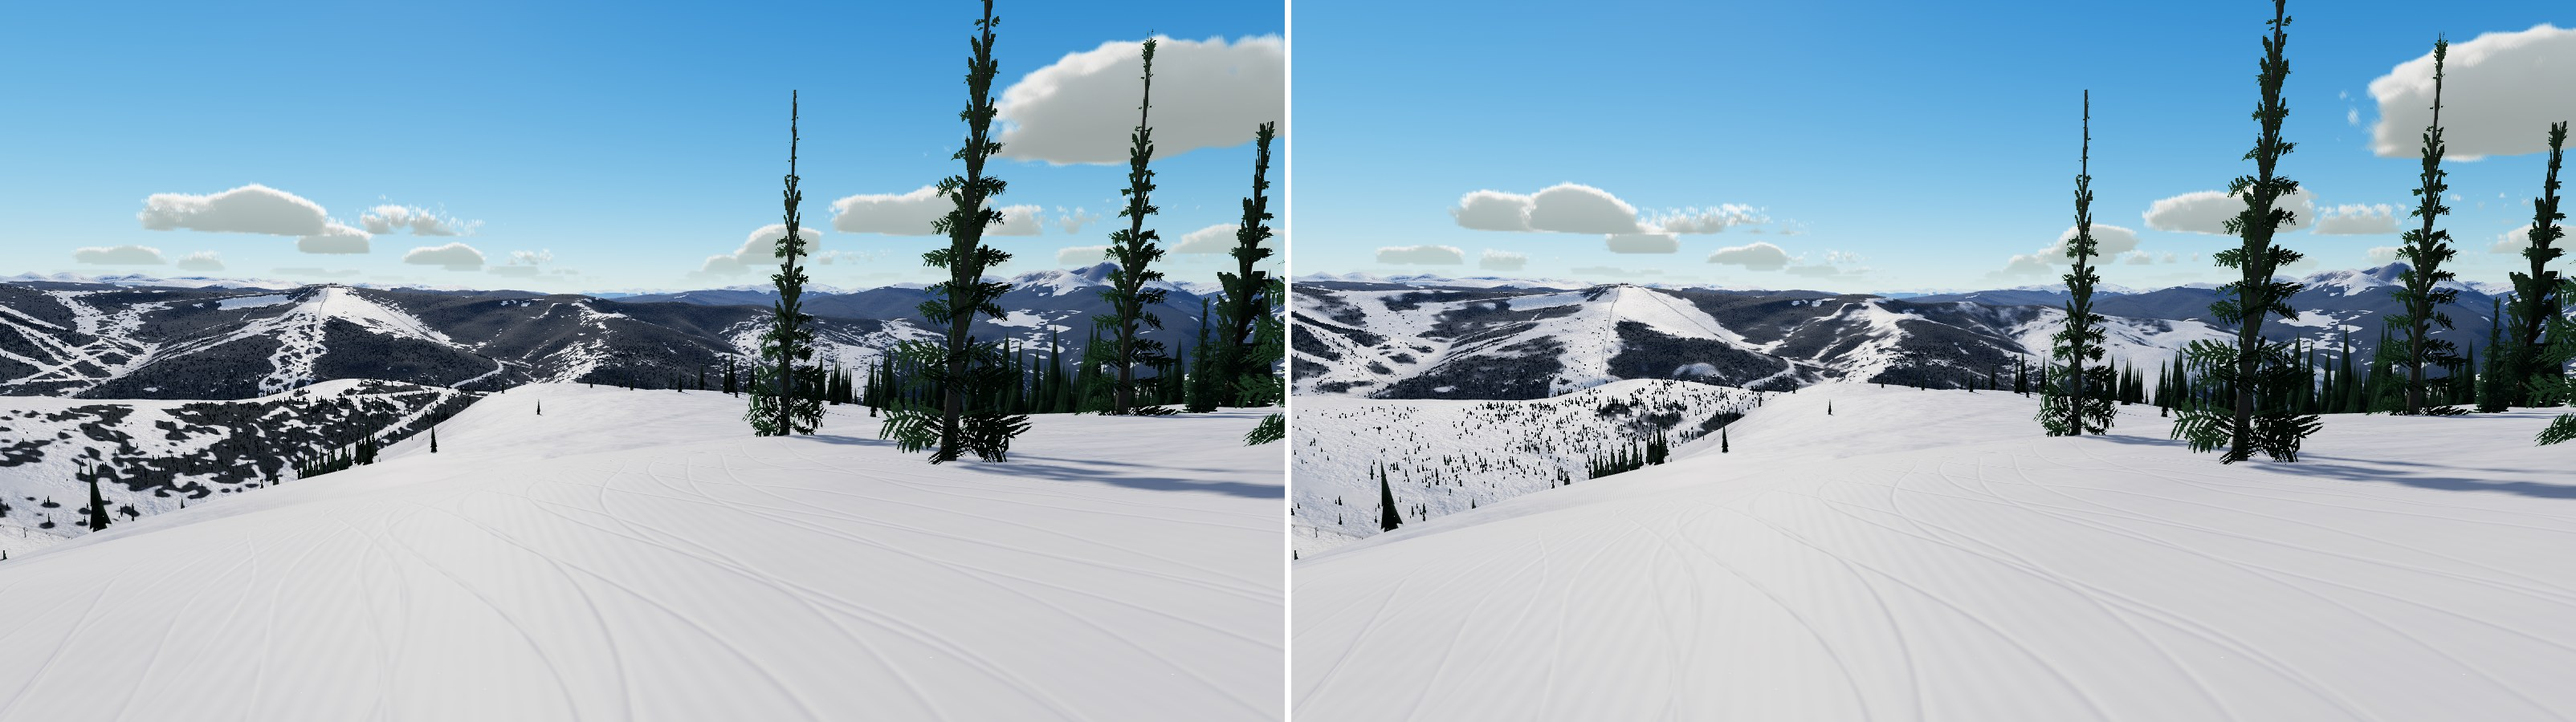
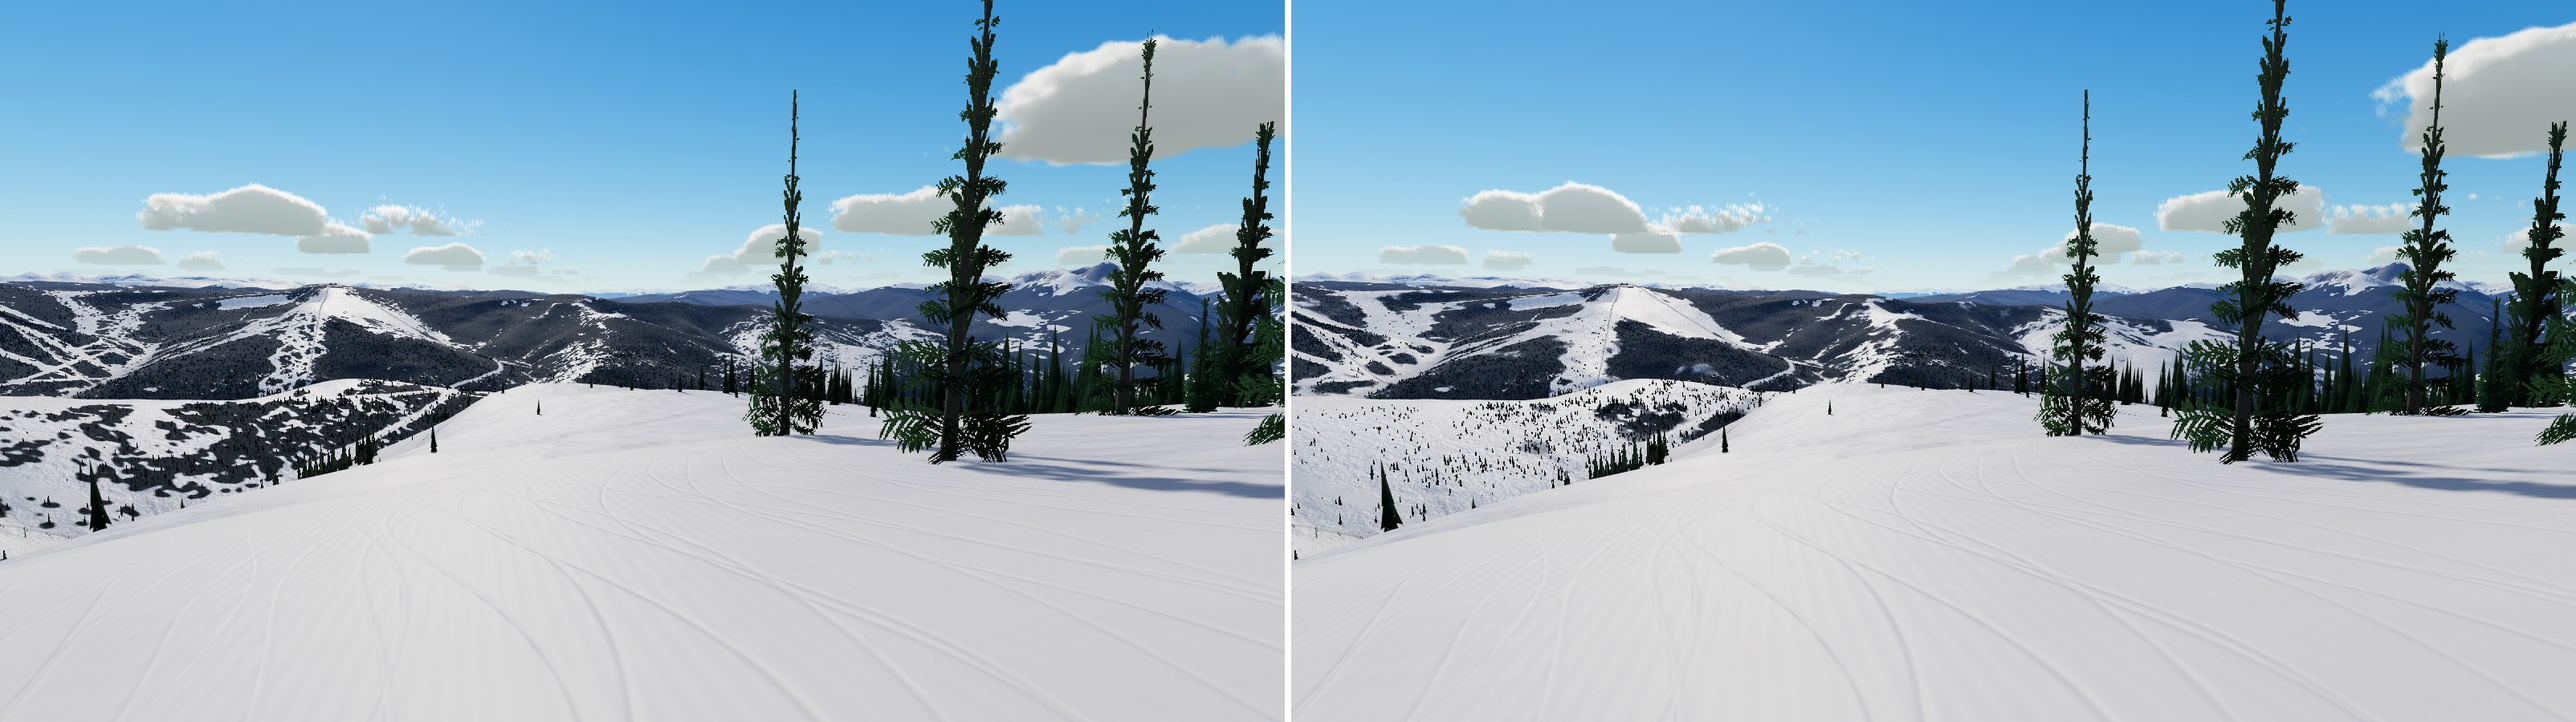
BUG-069: far timber closes up in slanted views (tree aspect in the gap fraction) and reads darker blue-green

diff --git a/game/src/terrain/TerrainMaterial.ts b/game/src/terrain/TerrainMaterial.ts
@@ -133,7 +133,7 @@ export function createTerrainMaterial(): THREE.MeshStandardMaterial {
      *  the share of the sun a sunlit canopy returns (shaded needles and crown sides), and how much of a
      *  forested pixel is timber rather than snow between the crowns. Tuned from 500 to 900 m up on Vail. */
     uForestDrawn: { value: 0.7 },
-    uCanopySun: { value: 0.3 },
+    uCanopySun: { value: 0.22 },
     uTimberMix: { value: 0.97 },
     /** FEAT-154: the rectangle (pack minX, minY, maxX, maxY) holding tree instances; none by default */
     uTreeRect: { value: EMPTY_RECT.clone() },
@@ -218,6 +218,8 @@ export function createTerrainMaterial(): THREE.MeshStandardMaterial {
         vec2 covUV(vec2 p, vec4 r) { return vec2((p.x - r.x) / (r.z - r.x), (r.w - p.y) / (r.w - r.y)); }
         // BUG-069: G of a level is its forest under closed stands of drawn trees only, shown while single
         // trees read (to STAND_NEAR m); R, the forest as a mass, takes over by STAND_FAR
+        // a conifer's side silhouette over its plan area: in a slanted view tall trees close the gaps sooner
+        #define TREE_ASPECT 2.5
         #define STAND_NEAR 1200.0
         #define STAND_FAR 2800.0
         // forest share (x) blended finest over coarsest, and how much of it is data (y). All three are
@@ -414,7 +416,7 @@ export function createTerrainMaterial(): THREE.MeshStandardMaterial {
         float forestK = mix(smoothstep(FOREST_LO, FOREST_HI, vForest), smoothstep(0.1, 0.9, cov.x), covK);
         // FEAT-154: how much of this ground a viewer sees as canopy (a gap fraction). With a share s of the
         // ground under crowns, a sight line at cosine mu to the ground misses the crowns with probability
-        // (1 - s)^(1/mu): grazing views (from the snow) see a closed mass, views from above see the openings.
+        // (1 - s)^((1 + TREE_ASPECT sin) / mu): grazing views (from the snow) see a closed mass, views from above see the openings.
         // Inside the trees' reach the drawn trees already cover rho = uForestDrawn of the canopy, so the
         // ground adds only what they miss, 1 - ((1 - s) / (1 - rho s))^(1/mu); before this the ground went
         // grey under trees that were already drawn, so sparse stands in the bowls read as grey blobs from
@@ -426,7 +428,7 @@ export function createTerrainMaterial(): THREE.MeshStandardMaterial {
         float viewMu = clamp(dot(ngW, normalize(cameraPosition - wp)), 0.12, 1.0);
         float rho = uForestDrawn * treeHere * (1.0 - smoothstep(uLiftNear - 800.0, uLiftNear, dist));
         float sK = min(forestK, 0.999);
-        float seen = 1.0 - pow((1.0 - sK) / (1.0 - rho * sK), 1.0 / viewMu);
+        float seen = 1.0 - pow((1.0 - sK) / (1.0 - rho * sK), (1.0 + TREE_ASPECT * sqrt(1.0 - viewMu * viewMu)) / viewMu);
         float fd = mix(1.0, smoothstep(FOREST_NEAR, FOREST_FULL, dist), treeHere) * seen;
         fd *= 1.0 - uDebugFar.x;
         // FEAT-075: conifer canopy in sun is dark (shaded needles and crowns), dark green-black in the photos.
@@ -436,7 +438,7 @@ export function createTerrainMaterial(): THREE.MeshStandardMaterial {
         float crownK = 1.0 - smoothstep(1.0, 5.0, pixM);
         float crown = vnoise(wp * 0.17) * 0.65 + vnoise(wp * 0.47 + 2.3) * 0.35;
         float stand = vnoise(wp * 0.007 + 5.1);
-        vec3 timber = mix(vec3(0.03, 0.045, 0.035), vec3(0.08, 0.1, 0.075), mix(0.4, crown, crownK) * 0.75 + stand * 0.25);
+        vec3 timber = mix(vec3(0.016, 0.034, 0.036), vec3(0.04, 0.07, 0.066), mix(0.4, crown, crownK) * 0.75 + stand * 0.25);
         timber = mix(timber, snow * 0.8, smoothstep(0.62, 0.9, crown) * crownK * 0.6); // snowy gaps between crowns
         base = mix(base, timber, fd * uTimberMix);
         gSnowW = wSnow * (1.0 - fd);

diff --git a/docs/developer-guide.md b/docs/developer-guide.md
@@ -7,7 +7,7 @@ pipeline script, URL parameters and the milestone history. Process docs: [HANDOF
 
 ## Features in detail
 
-- Terrain: quadtree LOD over the 262 km far ring, 1 m near the rider, snow / rock / scree / groomed material; forested ground darkens from the tree impostor ring outward so the far forest reads dark. Distant forest (FEAT-153, `pack/CoverSet.ts`): past about 300 m the shader takes the forest share per pixel from the pack's cover levels (`cover/*.png`, a mipmapped texture per level, up to 3), so the real forest edges and the ski trails cut through it show at any distance; to 1.2 km it reads the level's closed stands of drawn trees (G of the texture, the `stands` image) and from 2.8 km the forest as a mass (R), so open slopes with a few trees stay white up close and far timber stays solid (BUG-069); chunks coarser than 8 m take forest, rock and canopy height from the same levels per vertex instead of the procedural treeline (`proceduralForest`, now only where no level reaches or before they load). From the impostors' reach (`uLiftNear`, Vegetation's FAR_RADIUS: 4.5 km at full tree density, nearer on lower density settings) to 2 km past it, chunks coarser than 8 m rise by canopy height x cover x 0.7 (the `lift` attribute, applied in the vertex shader) so forested ridges read as treed; the far timber has a crown-scale texture that fades to an even tone once a pixel is wider than a crown. Forest from high up (FEAT-154, `docs/research/far-terrain.md` section 7): how dark forested ground goes is a gap fraction, `1 - ((1 - s) / (1 - rho s))^(1 / mu)` of the cover share `s` and the cosine `mu` between the ground normal and the view, so grazing views from the snow see a closed mass and views from the air see the openings; inside the trees' reach `rho` (`uForestDrawn`, 0.7) is the part of the canopy the drawn trees already cover, and outside the pack's tree instances (`uTreeRect`, set by `Terrain` from `meta.instances`) the ground carries the forest from the first metre. Sunlit canopy takes `uCanopySun` (0.3) of the direct light and a forested pixel is `uTimberMix` (0.97) timber. `uDebugFar` switches terms off for A/B stills (x forest, y rock and talus, z snow drift normals; w paints the forest darkening red), for example `SHOT_EVAL` or a `tools/aerial.mjs` variant setting `__sim.terrain.material.userData.uniforms.uDebugFar.value.set(1, 0, 0, 0)`.
+- Terrain: quadtree LOD over the 262 km far ring, 1 m near the rider, snow / rock / scree / groomed material; forested ground darkens from the tree impostor ring outward so the far forest reads dark. Distant forest (FEAT-153, `pack/CoverSet.ts`): past about 300 m the shader takes the forest share per pixel from the pack's cover levels (`cover/*.png`, a mipmapped texture per level, up to 3), so the real forest edges and the ski trails cut through it show at any distance; to 1.2 km it reads the level's closed stands of drawn trees (G of the texture, the `stands` image) and from 2.8 km the forest as a mass (R), so open slopes with a few trees stay white up close and far timber stays solid (BUG-069); chunks coarser than 8 m take forest, rock and canopy height from the same levels per vertex instead of the procedural treeline (`proceduralForest`, now only where no level reaches or before they load). From the impostors' reach (`uLiftNear`, Vegetation's FAR_RADIUS: 4.5 km at full tree density, nearer on lower density settings) to 2 km past it, chunks coarser than 8 m rise by canopy height x cover x 0.7 (the `lift` attribute, applied in the vertex shader) so forested ridges read as treed; the far timber has a crown-scale texture that fades to an even tone once a pixel is wider than a crown. Forest from high up (FEAT-154, `docs/research/far-terrain.md` section 7): how dark forested ground goes is a gap fraction, `1 - ((1 - s) / (1 - rho s))^((1 + 2.5 sqrt(1 - mu^2)) / mu)` of the cover share `s` and the cosine `mu` between the ground normal and the view (the 2.5, `TREE_ASPECT`, is a conifer's side silhouette over its plan area: tall trees close the gaps sooner in a slanted view, BUG-069), so grazing views from the snow see a closed mass and views from the air see the openings; inside the trees' reach `rho` (`uForestDrawn`, 0.7) is the part of the canopy the drawn trees already cover, and outside the pack's tree instances (`uTreeRect`, set by `Terrain` from `meta.instances`) the ground carries the forest from the first metre. Sunlit canopy takes `uCanopySun` (0.22) of the direct light and a forested pixel is `uTimberMix` (0.97) timber. `uDebugFar` switches terms off for A/B stills (x forest, y rock and talus, z snow drift normals; w paints the forest darkening red), for example `SHOT_EVAL` or a `tools/aerial.mjs` variant setting `__sim.terrain.material.userData.uniforms.uDebugFar.value.set(1, 0, 0, 0)`.
 - Trees (FEAT-156, `world/trees/`, drawn by `world/Vegetation.ts`): a procedural asset kit, nothing downloaded. `species.ts` is the table of the eight species (ids as in the pack, DATA-020: 0 Engelmann spruce, 1 aspen, 2 krummholz, 3 subalpine fir, 4 lodgepole, 5 Douglas-fir, 6 limber pine, 7 snag) with their shape, colours, whorls and variant weights; packs without `meta.treeSpecies` (0 to 2 only) split their conifers 60/40 into spruce and fir by a position hash. `textures.ts` draws one 1024 x 1024 atlas at load (12 grey branch-spray cells and 8 bark swatches, tinted per species by vertex colour; transparent texels carry the cell's mean colour and each mip keeps the cell's alpha coverage). `generate.ts` builds every species x 4 variants (seeded: tier count, gaps, droop, lean, a double or broken top on some spruce and fir) at unit height and crown radius 1 from one plan per variant, so LOD0 (trunk + bent alpha cards, normals bent out from the trunk) and LOD1 (trunk + star-edged cones or blobs) share a silhouette. `materials.ts` holds the LOD hook: each LOD draws only in its band of distance from the camera (`kitUniforms.uLodCam`, so the shadow pass agrees) and crossfades with the next by a screen-door dither (Bayer 8x8, complementary cells); LOD0 sways (`TreeKit.setWind`). LOD2 (crossed quads) and the impostors (camera-facing quads) sample albedo and normal atlases baked from LOD0 (`TreeKit.bake`, 8 angles x 8 species) and are lit in the shader like the standard material (sun, hemisphere, a quarter of the GGX specular, `FAR_GAIN`), so the colour holds across the swaps. Bands: LOD0 to 80 m, LOD1 to 400 m, LOD2 to 1.5 km, impostors to 4.5 km, scaled by the tree density setting (`setVegetationDensity`). `Vegetation` fills LOD0 and LOD1 from the trees near the camera (one InstancedMesh per species x variant, regathered every 25 / 60 m of camera movement through a 100 m sub-tile index per cell) and keeps one LOD2 and one impostor mesh per 1 km cell (all species, `iSpec` per instance). Tune the look with `tools/treeshot.mjs`, the cost with `tools/treeperf.mjs`.
 - Riding: carving on a real edge angle (up to 72 deg on firm snow, 45 in powder) with the turn radius from the board's sidecut, washing into a skid past the grip; edge to edge takes about 0.3 s at speed; the rider leans into the hill up to 60 deg with deep toeside and heelside carve poses. Hard carve (FEAT-148, the squat key held while steering): `Rider.hardCarve` eases in, the edge cap goes to `HARD_PSI` (80 deg) and the edge rolls `HARD_ROLL` times faster (slowing with the square of the speed past `HARD_ROLL_V`), the lean may reach `HARD_PHI` and the snow holds up to `HARD_G` (2.6 g) times its grip; the press asks for the turn of the target edge, driven in over `HARD_DRIVE_T` once the edge is on the steer's side, while the edge holds only what its real angle balances, so a lagging edge (pressed from flat at speed, on ice) skids (`carveShort`, folded into `skid` for the drag, spray and sound) and short of more than `WASH_SHARE` (35%) of the turn asked, at speed, fills `washout` (a share, so softer snow that asks less washes out alike; the snow's grip scales what the edge holds; only deep powder, its share times depth over `HARD_DEEP` 30 cm, lowers the hard carve's edge cap and stops the washout); full, the rider crashes to the inside of the turn (`crashSide`, the ragdoll topples that way) and `onWashout` toasts it. `HARD_DRAG` adds a drag from the lateral acceleration. The view lays the body over to `LEAN_HARD` (73 deg) in the deep carve stance (BUG-066: the squat pose fades out while `hardCarve` is in, and `RiderView.deckDeficit` lifts the hips until the shins, knees and thighs clear the deck in the board's own frame, `DECK_CLEAR`) and drags the inside hand on the snow; the spray, the track depth and the carve hiss rise with it; `?debug` shows hard, short and wash. Also tuck, brake (the board swings across into a hockey stop, scrapes a wide track and holds on its edge once stopped; steering while braking digs the edge in for a harder stop or lets it off into a skidded turn or a side-slip), the fall line (a flat board follows its slide down the hill and side-slips when let go across it unless the uphill edge is held; on Realistic the edge catches when the board slides sideways onto its leading edge, or slides flat over rough snow; Settings > Gameplay > Fall line: Realistic (the default), Assisted, Off; the Feel presets set it, Arcade to Off), charged jumps with ollie and nollie off the board's spring (hold W / S with Space), nose and tail presses (Q / Z) balanced on a meter (FEAT-140: `Rider.pressStep`, the needle `pressBalance` drifts with the hold time, speed and bumps, runs away off centre, and W / S or the stick shift the weight back (over 0.15 s, and always strong enough to win, so there is no time limit); off the loaded end a slam that topples the ragdoll over that end (`Rider.crashFall`) or a stall, off the other end the board drops flat; a press key held through a trick lands into the press (`pressFrom`); `onPress` reports the time and distance, `ui/PressMeter.ts` draws the meter over the head, tunables `PB_*` and `PRESS_RANGE` (how far the balance runs before it is lost; the body leans in proportion) at the top of `Rider.ts`, Settings > Gameplay > Press balance Easy / Normal / Hard / Off, also set by the Feel presets), squat (Left Ctrl), skating on the flat (X), grabs, air spins, front flips and backflips (Up / Down in the air, trick names toast on landing: flips, and spins as "Frontside 180" / "Backside 360"), landings; collisions with trees, rocks and building walls. The snowboard bends when loaded. Snowboard or skis, outfit colours, articulated rider with blended poses. The body leads and the board follows (BUG-056, visual only): the head and shoulders pose about 0.2 s ahead of the physics (the steer's target edge and the heading the turn rate is reaching), the hips and the body's inclination about 0.12 s ahead, each lead signal followed through a critically damped 0.09 s body response (`BODY_RESPONSE`) so the body moves at a human speed instead of snapping to its prediction, and the board as drawn trails the physics yaw and edge by about 0.08 s (critically damped, never rolled past the physics edge, snapped on landings and crashes), so an edge change reads look, shoulders, hips, knees, board. Tunables `LEAD_UPPER`, `LEAD_HIPS`, `BOARD_LAG` at the top of `RiderView.ts`, live on `riderView.leadUpper` / `leadHips` / `boardLag` and as sliders under `?debug`.
 - Riding switch and stance (FEAT-139): `rider.heading` is always the steering axis along the direction of travel, and every physics value (edge, lateral g, lean, flip, brake side) is in its frame, so + edge is the heading's right-hand edge. Going backwards along it faster than `FAKIE_SPEED` (2.5 m/s), or landing with the board backwards, `turnRound()` adds PI to the heading and board yaw, negates the edge, lean and lateral g, and toggles `rider.switch`. `rider.goofy` comes from Settings > Gameplay > Stance. `rider.toeSign` is -1 when switch and goofy differ: `RiderView` then draws the board and body at the yaw + PI and negates every sideways and fore-aft value into the rig's frame (`fl`), so turning round never moves the rider on screen and the toe and heel poses stay the rider's own. A goofy rig (`buildRig(..., goofy)`) has the deck's nose at +Z and the +15 / -6 bindings swapped ends, so drawn turned round it is a true goofy stance. Seated and on foot are always drawn along the heading; unstrapping and strapping in turn the heading round when needed so nothing pops. Switch is 4 % less grip (`SWITCH_GRIP`), shows SWITCH on the HUD, and prefixes trick names ("Switch backside 180"). Replays and ghosts carry flag bits 8 (switch) and 16 (goofy). Skis never ride switch.
